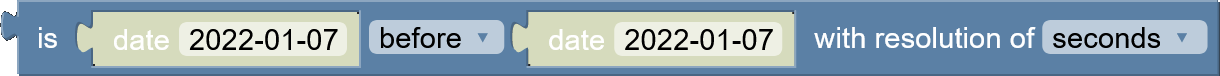
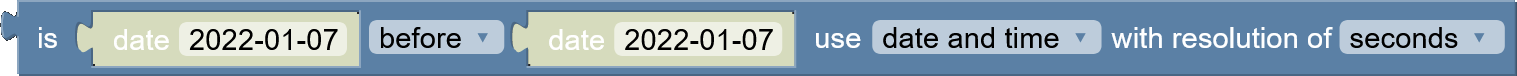
allow comparison of date, time or both

diff --git a/libraries/datetime/README.md b/libraries/datetime/README.md
@@ -59,7 +59,7 @@ Returns a copy of the provided ZonedDateTime with the selected field altered.
 
 ![get_zdt_with_altered_unit](images/get_zdt_with_altered_unit.png)
 
-### is \<zdt1\> before/after/equal \<zdt2\> with resolution of \<datetime_unit\>
+### is \<zdt1\> before/after/equal \<zdt2\> use date and time/date/time with resolution of \<datetime_unit\>
 Checks if the instant of the first ZonedDateTime is before/after/equal that of the second ZonedDateTime.
 
 ![compare_zdt_with_zdt](images/compare_zdt_with_zdt.png)
